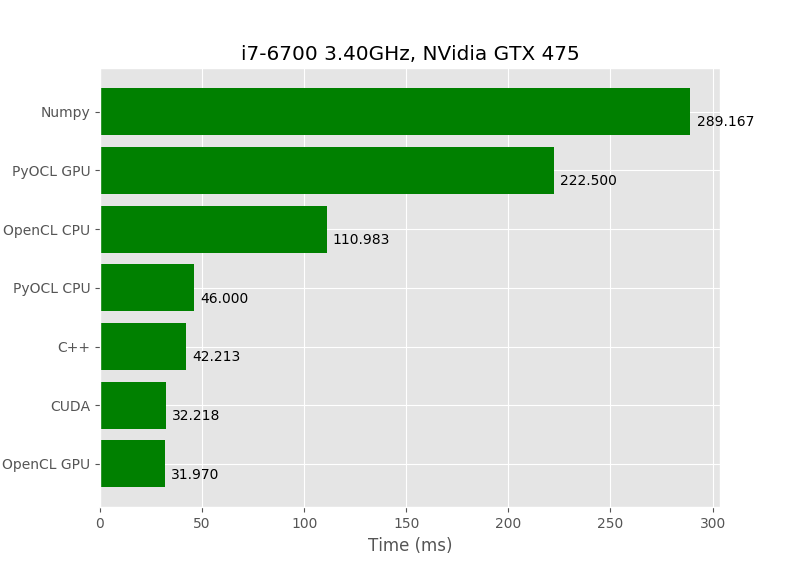
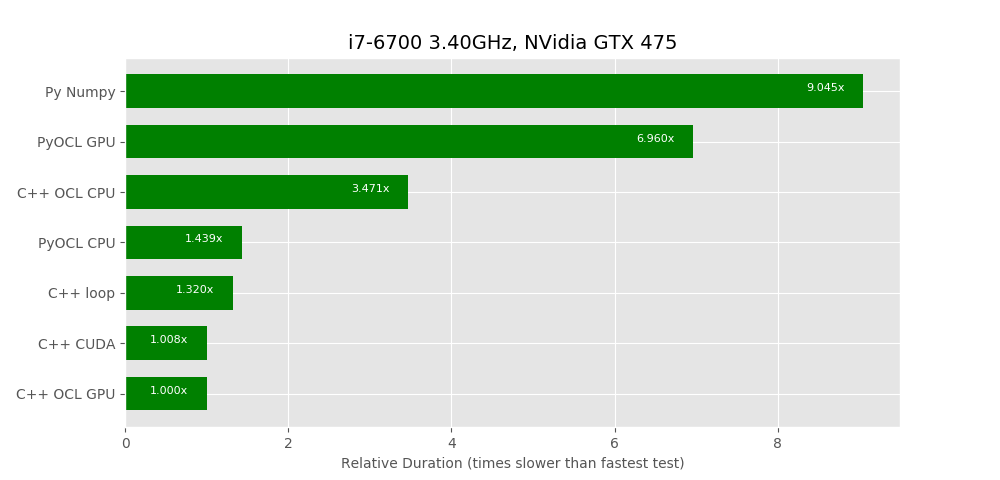
Updated results

diff --git a/results/create_charts.py b/results/create_charts.py
@@ -8,14 +8,14 @@ import numpy as np
 import pandas as pd
 
 
-def create_chart(spec, output_md):
+def create_chart(spec, output_md, use_rel=True):
     print('Processing {} "{}"'.format(spec['data'], spec['title']))
 
     plt.style.use('ggplot')
 
     png_file = os.path.splitext(spec['data'])[0] + ".png"
 
-    output_md += "\n# {}\n\n".format(spec['title'])
+    output_md += "\n\n# {}\n\n".format(spec['title'])
     output_md += "Submitted by {} on {}\n\n".format(spec['by'], spec['date'])
 
     if spec['remarks']:
@@ -61,28 +61,30 @@ def create_chart(spec, output_md):
         output_md += "\n### Notes\n\n" + notes
 
     m = m[i:]
+    rel = rel[i:]
 
     tests = m.index
-    y_pos = np.arange(len(tests))
-    y = m
-    error = None
+    y_pos = np.arange(len(tests)) * 0.6
+    y = rel
     xlims = None
 
-    fig = plt.figure(figsize=(8, 1.5 + 0.6 * len(m)))
+    fig = plt.figure(figsize=(10, 2 + 0.4 * len(m)))
     if xlims:
         ax = brokenaxes(xlims=xlims, hspace=.05)
     else:
         ax = plt.subplot(111)
 
-    ax.barh(y_pos, y, xerr=error, align='center', color='green', ecolor='black')
+    ax.barh(y_pos, y, height=0.4, align='center', color='green', ecolor='black')
+
     for i, v in enumerate(y):
-        ax.text(v + 3, i + .25, '%.3f' % v)
+        # ax.text(v, i, '%.3fx' % v)
+        ax.text(max(0, v - 0.7), y_pos[i], '%.3fx' % v, fontdict={'size': 8}, color='w')
 
     ax.set_yticks(y_pos)
-    ax.set_yticklabels(tests)
+    ax.set_yticklabels(tests, fontdict={'size': 10})
     ax.invert_yaxis()  # labels read top-to-bottom
-    ax.set_xlabel('Time (ms)')
-    ax.set_title(spec['title'])
+    ax.set_xlabel('Relative Duration (times slower than fastest test)', fontdict={'size': 10})
+    ax.set_title(spec['title'], fontdict={'size': 14})
 
     ax.grid(color='w')
     plt.savefig(png_file)

diff --git a/results/README.md b/results/README.md
@@ -7,6 +7,7 @@ file. Feel free to submit a result:
 2. Create an entry in [result_specs.json](result_specs.json)
 3. Create pull request
 
+
 # MacBook Pro 13" late 2013, on board Intel Iris GPU
 
 Submitted by Benny Prijono on 2017-11-14
@@ -32,15 +33,16 @@ Submitted by Benny Prijono on 2017-11-14
 | Test   | Mean Time (ms) | StdDev (ms) | Time (rel)
 |--------| --------: | --------: | --------: |
 | Python loop | 20491.674 | 2353.082 | 429.93x |
-| Numpy | 448.097 | 14.627 | 9.40x |
-| OpenCL GPU | 56.174 | 1.138 | 1.18x |
-| C++ | 50.127 | 2.145 | 1.05x |
-| OpenCL CPU | 47.663 | 0.936 | 1.00x |
+| Py Numpy | 448.097 | 14.627 | 9.40x |
+| C++ OCL GPU | 56.174 | 1.138 | 1.18x |
+| C++ loop | 50.127 | 2.145 | 1.05x |
+| C++ OCL CPU | 47.663 | 0.936 | 1.00x |
 
 
 ### Notes
 
 - **outlier "Python loop" is removed from the chart**
+
 
 
 
@@ -75,13 +77,13 @@ Submitted by Benny Prijono on 2017-11-14
 | Test   | Mean Time (ms) | StdDev (ms) | Time (rel)
 |--------| --------: | --------: | --------: |
 | Python loop | 12494.000 | 198.252 | 390.80x |
-| Numpy | 289.167 | 21.628 | 9.04x |
+| Py Numpy | 289.167 | 21.628 | 9.04x |
 | PyOCL GPU | 222.500 | 3.271 | 6.96x |
-| OpenCL CPU | 110.983 | 2.128 | 3.47x |
+| C++ OCL CPU | 110.983 | 2.128 | 3.47x |
 | PyOCL CPU | 46.000 | 1.265 | 1.44x |
-| C++ | 42.213 | 3.059 | 1.32x |
-| CUDA | 32.218 | 0.019 | 1.01x |
-| OpenCL GPU | 31.970 | 0.057 | 1.00x |
+| C++ loop | 42.213 | 3.059 | 1.32x |
+| C++ CUDA | 32.218 | 0.019 | 1.01x |
+| C++ OCL GPU | 31.970 | 0.057 | 1.00x |
 
 
 ### Notes

diff --git a/README.md b/README.md
@@ -21,25 +21,11 @@ the loop time since our loop is very simple.
 
 # Results
 
-Here are some sample results.
+See the [results](results/) directory for the full results.
 
-## i7-6700, Windows10, GeForce GTX 745 GPU
- 
-- Hardware:
-  - Intel i7-6700 CPU @ 3.40GHz (4 cores, HT capable)
-  - NVidia GeForce GTX 745 graphics card
-- Software:
-  - Windows 10 64bit
-  - Visual Studio 2015 C++ compiler 64bit version
-  - [CUDA Version 8.0.61](https://developer.nvidia.com/cuda-zone)
-  - [Intel OpenCL SDK Version 7.0.0.2519](https://software.intel.com/en-us/intel-opencl) 
-  - Python 2.7.12 64bit
-  - [PyOpenCL version 2017.2](https://mathema.tician.de/software/pyopencl/)
-- Setup:
-  - N is 2^26, or about 67 million elements.
+Here is a sample result:
 
-## MacBook Pro 13" Late 2013, onboard Intel Iris GPU
-
+![benny-desktop1.png](results/benny-desktop1.png?raw=true "benny-desktop1.png")
 
 
 # Naive Python Loop
